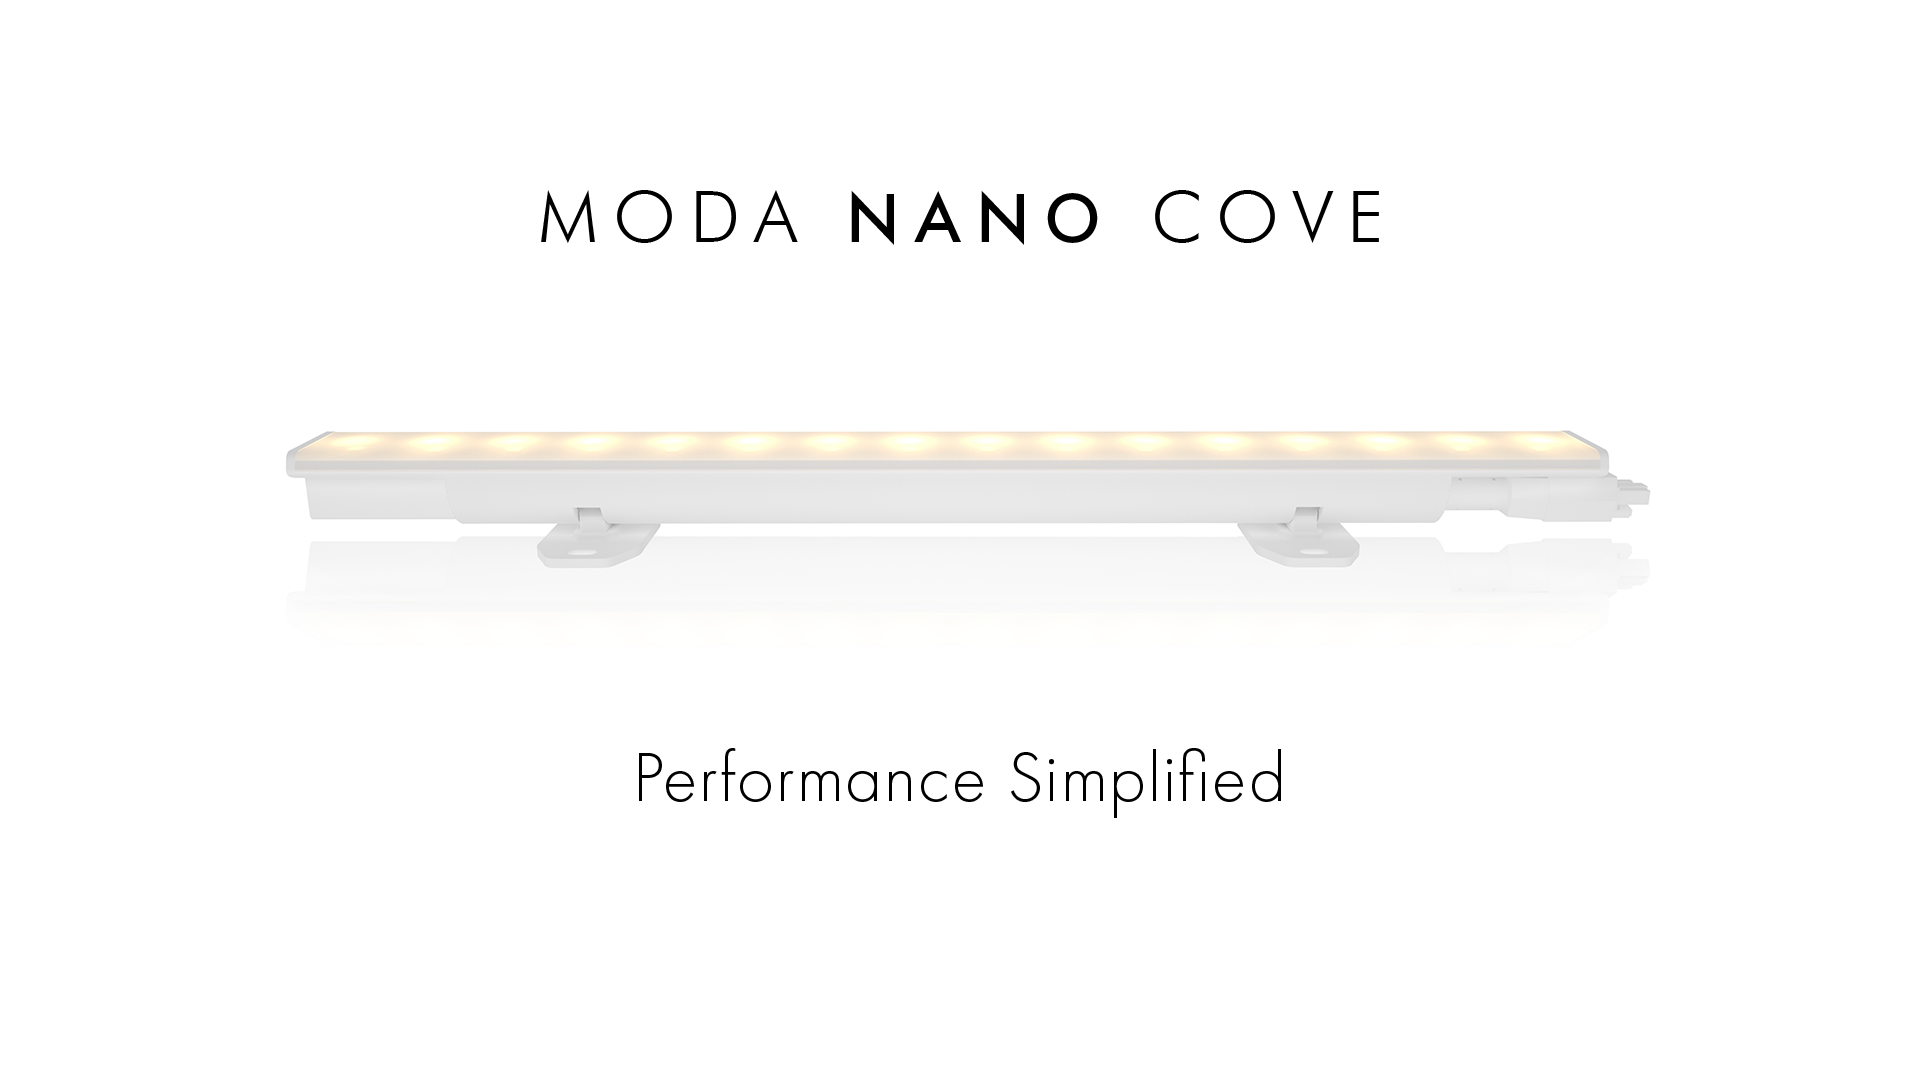
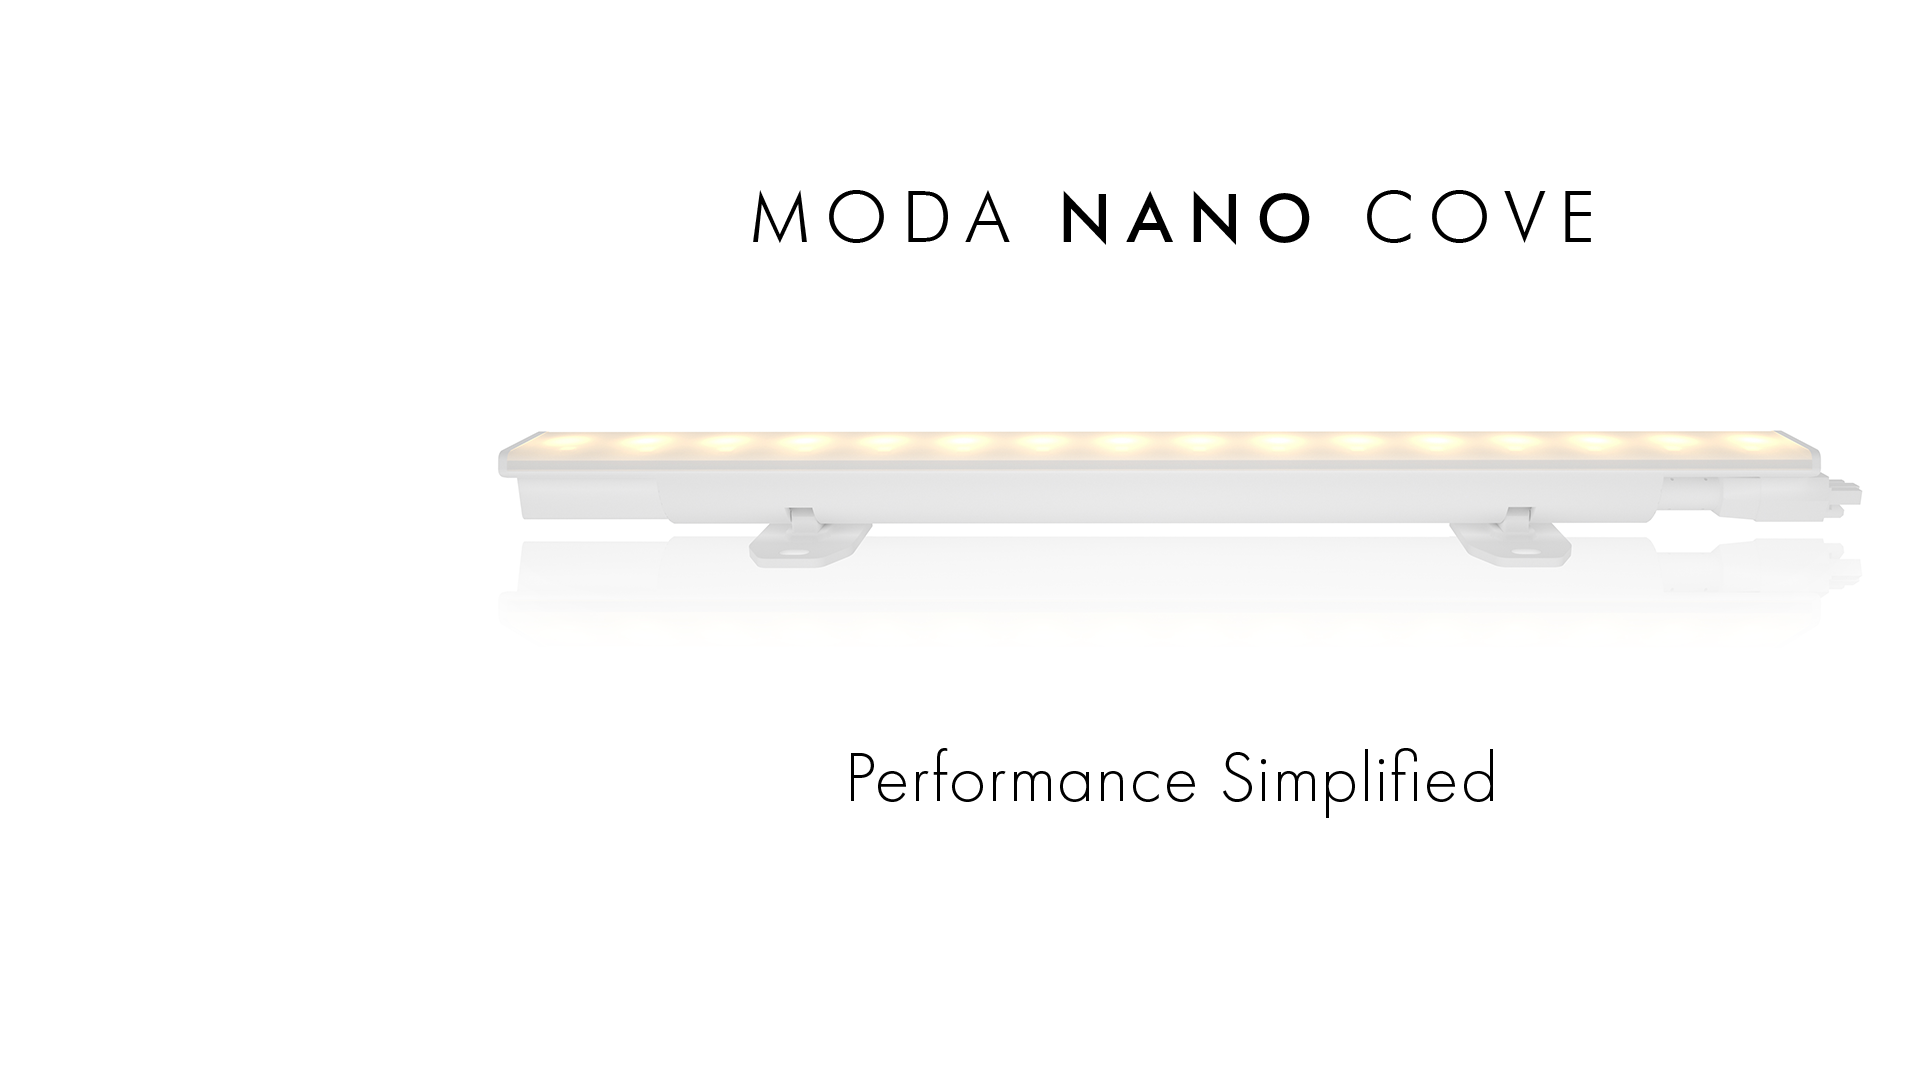
homepage changes v4

diff --git a/homepage.html b/homepage.html
@@ -55,7 +55,7 @@ $(document).ready(function(){
 		 
 			<!--NANO-->
 			<center>
-				<img class="SSONECenterImg" src="images/Homepage/Slideshow/Slideshow1-1.png">
+				<img class="SSTWOCenterImg" src="images/Homepage/Slideshow/Slideshow1.png">
 							
 			</center>
 
